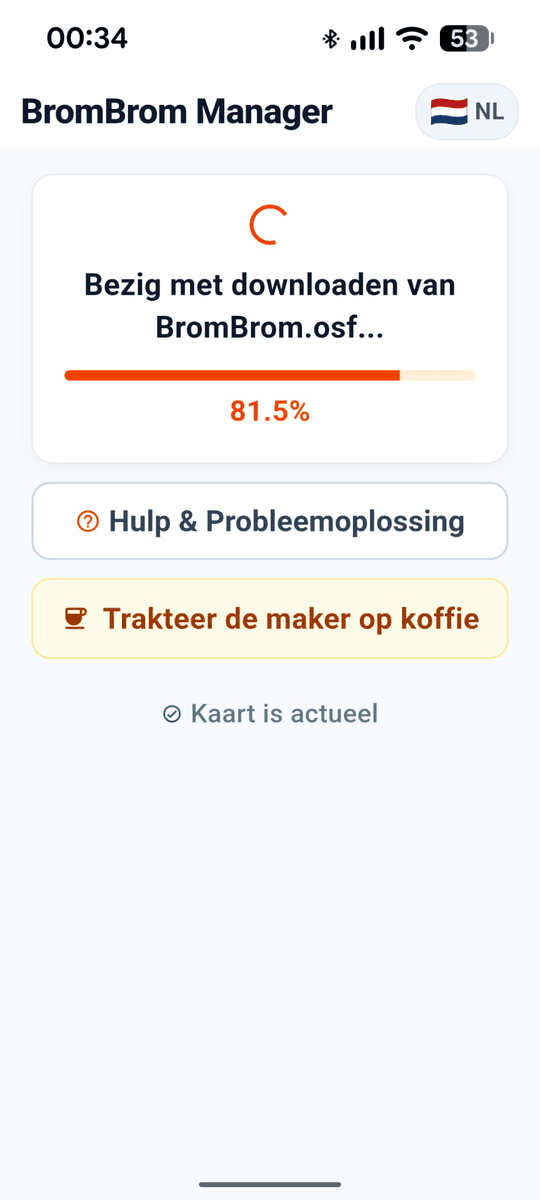
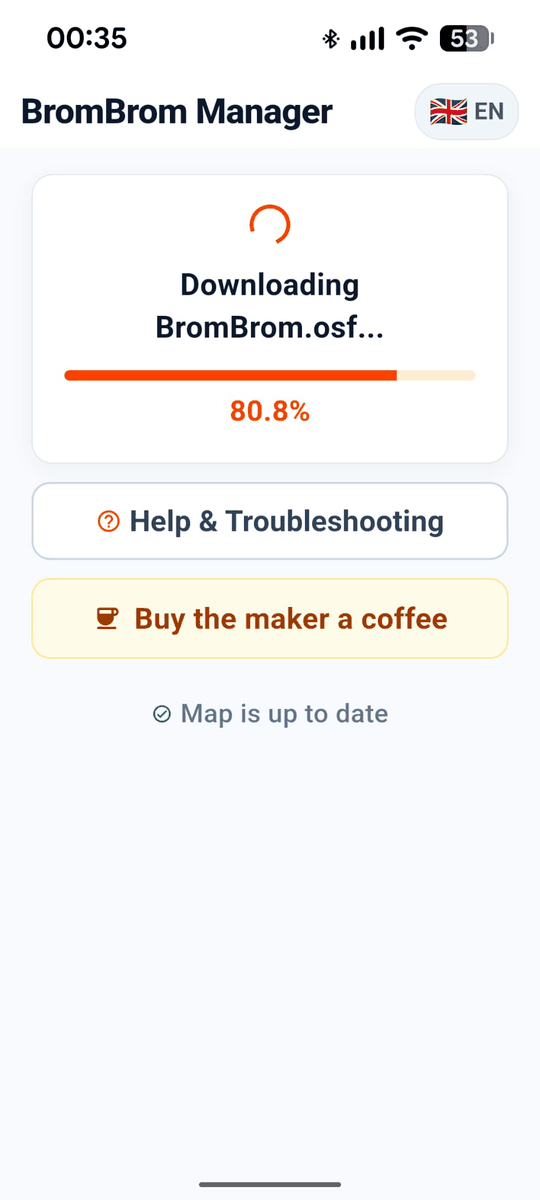
feat(website): localize carousel step 0 screenshot and restore EN default for GitHub

diff --git a/website/src/main.js b/website/src/main.js
@@ -233,12 +233,21 @@ function getActiveScreenshotIndex() {
   return visibleIndices[carouselMode][activeIndex];
 }
 
+function getScreenshotSrc(screenshotIndex) {
+  if (screenshotIndex === 0) {
+    return currentLang === 'nl'
+      ? '/assets/bbm-screenshots/bbm-0-updates-available-nl.png'
+      : '/assets/bbm-screenshots/bbm-0-updates-available.png';
+  }
+  return screenshots[screenshotIndex];
+}
+
 function updateCarousel() {
   if (!carouselImg) return;
   
   const activeSubset = visibleIndices[carouselMode];
   const screenshotIndex = getActiveScreenshotIndex();
-  const item = screenshots[screenshotIndex];
+  const item = getScreenshotSrc(screenshotIndex);
   
   carouselImg.classList.add('fade-out');
   
